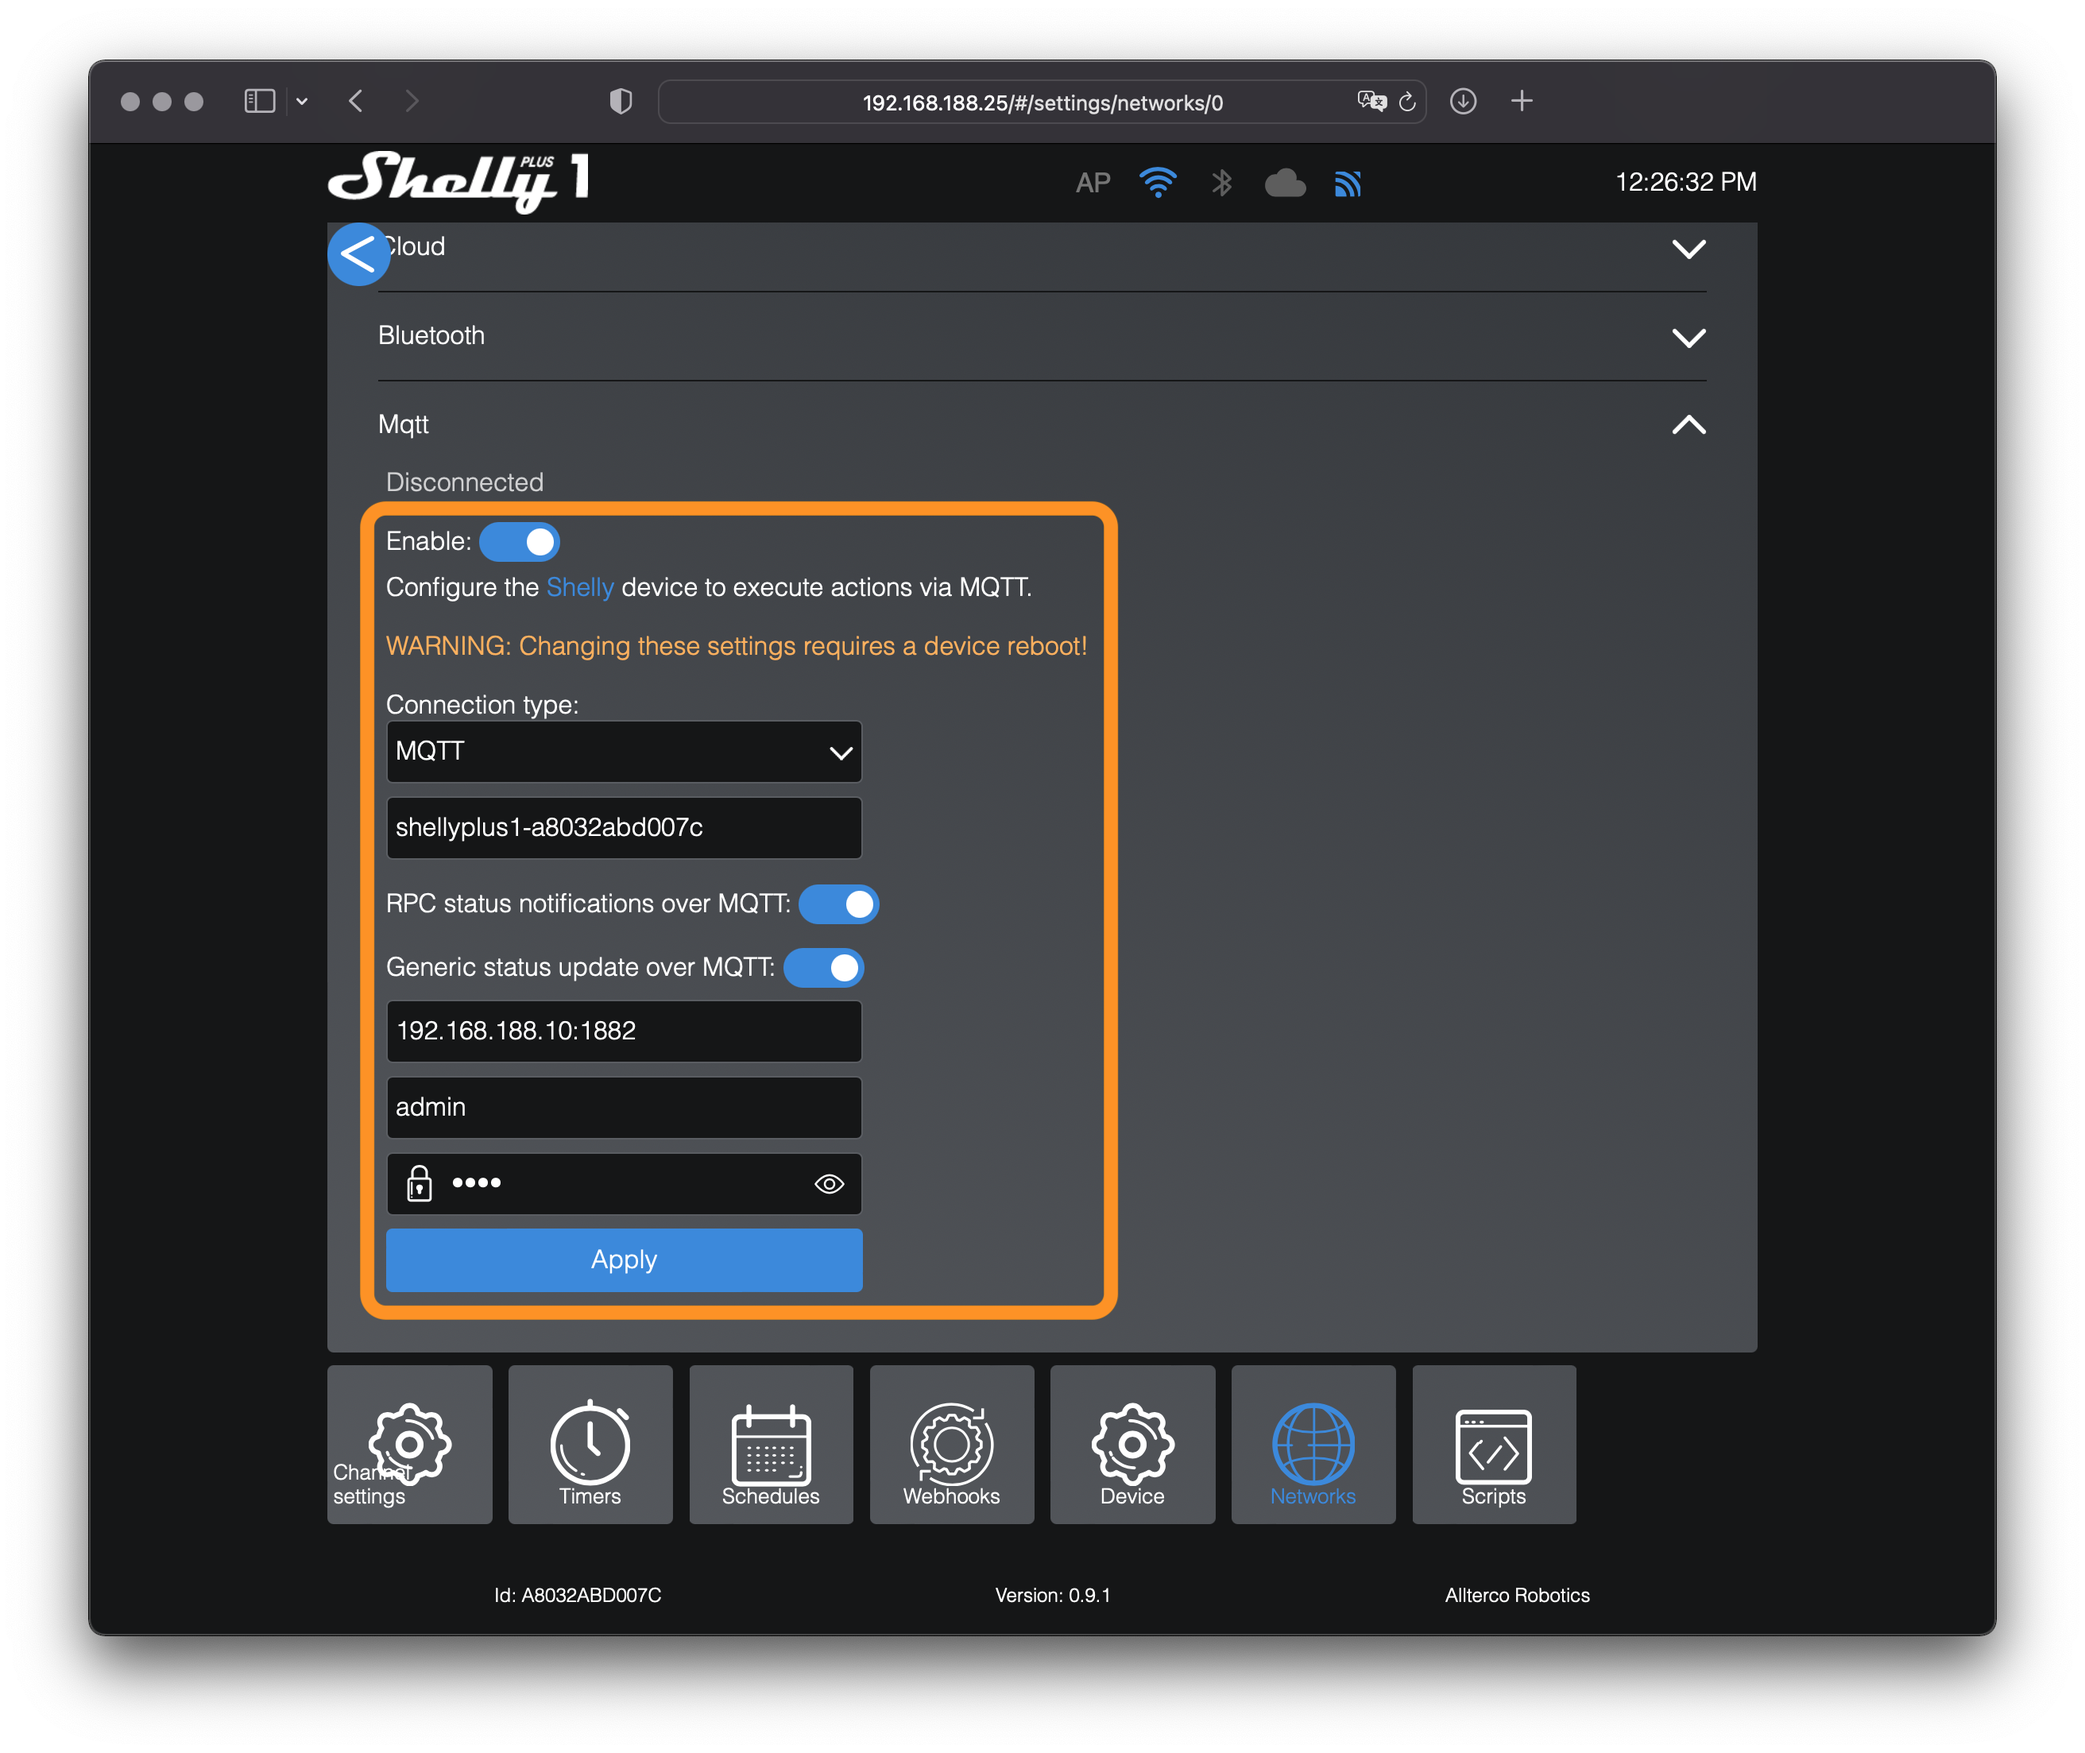
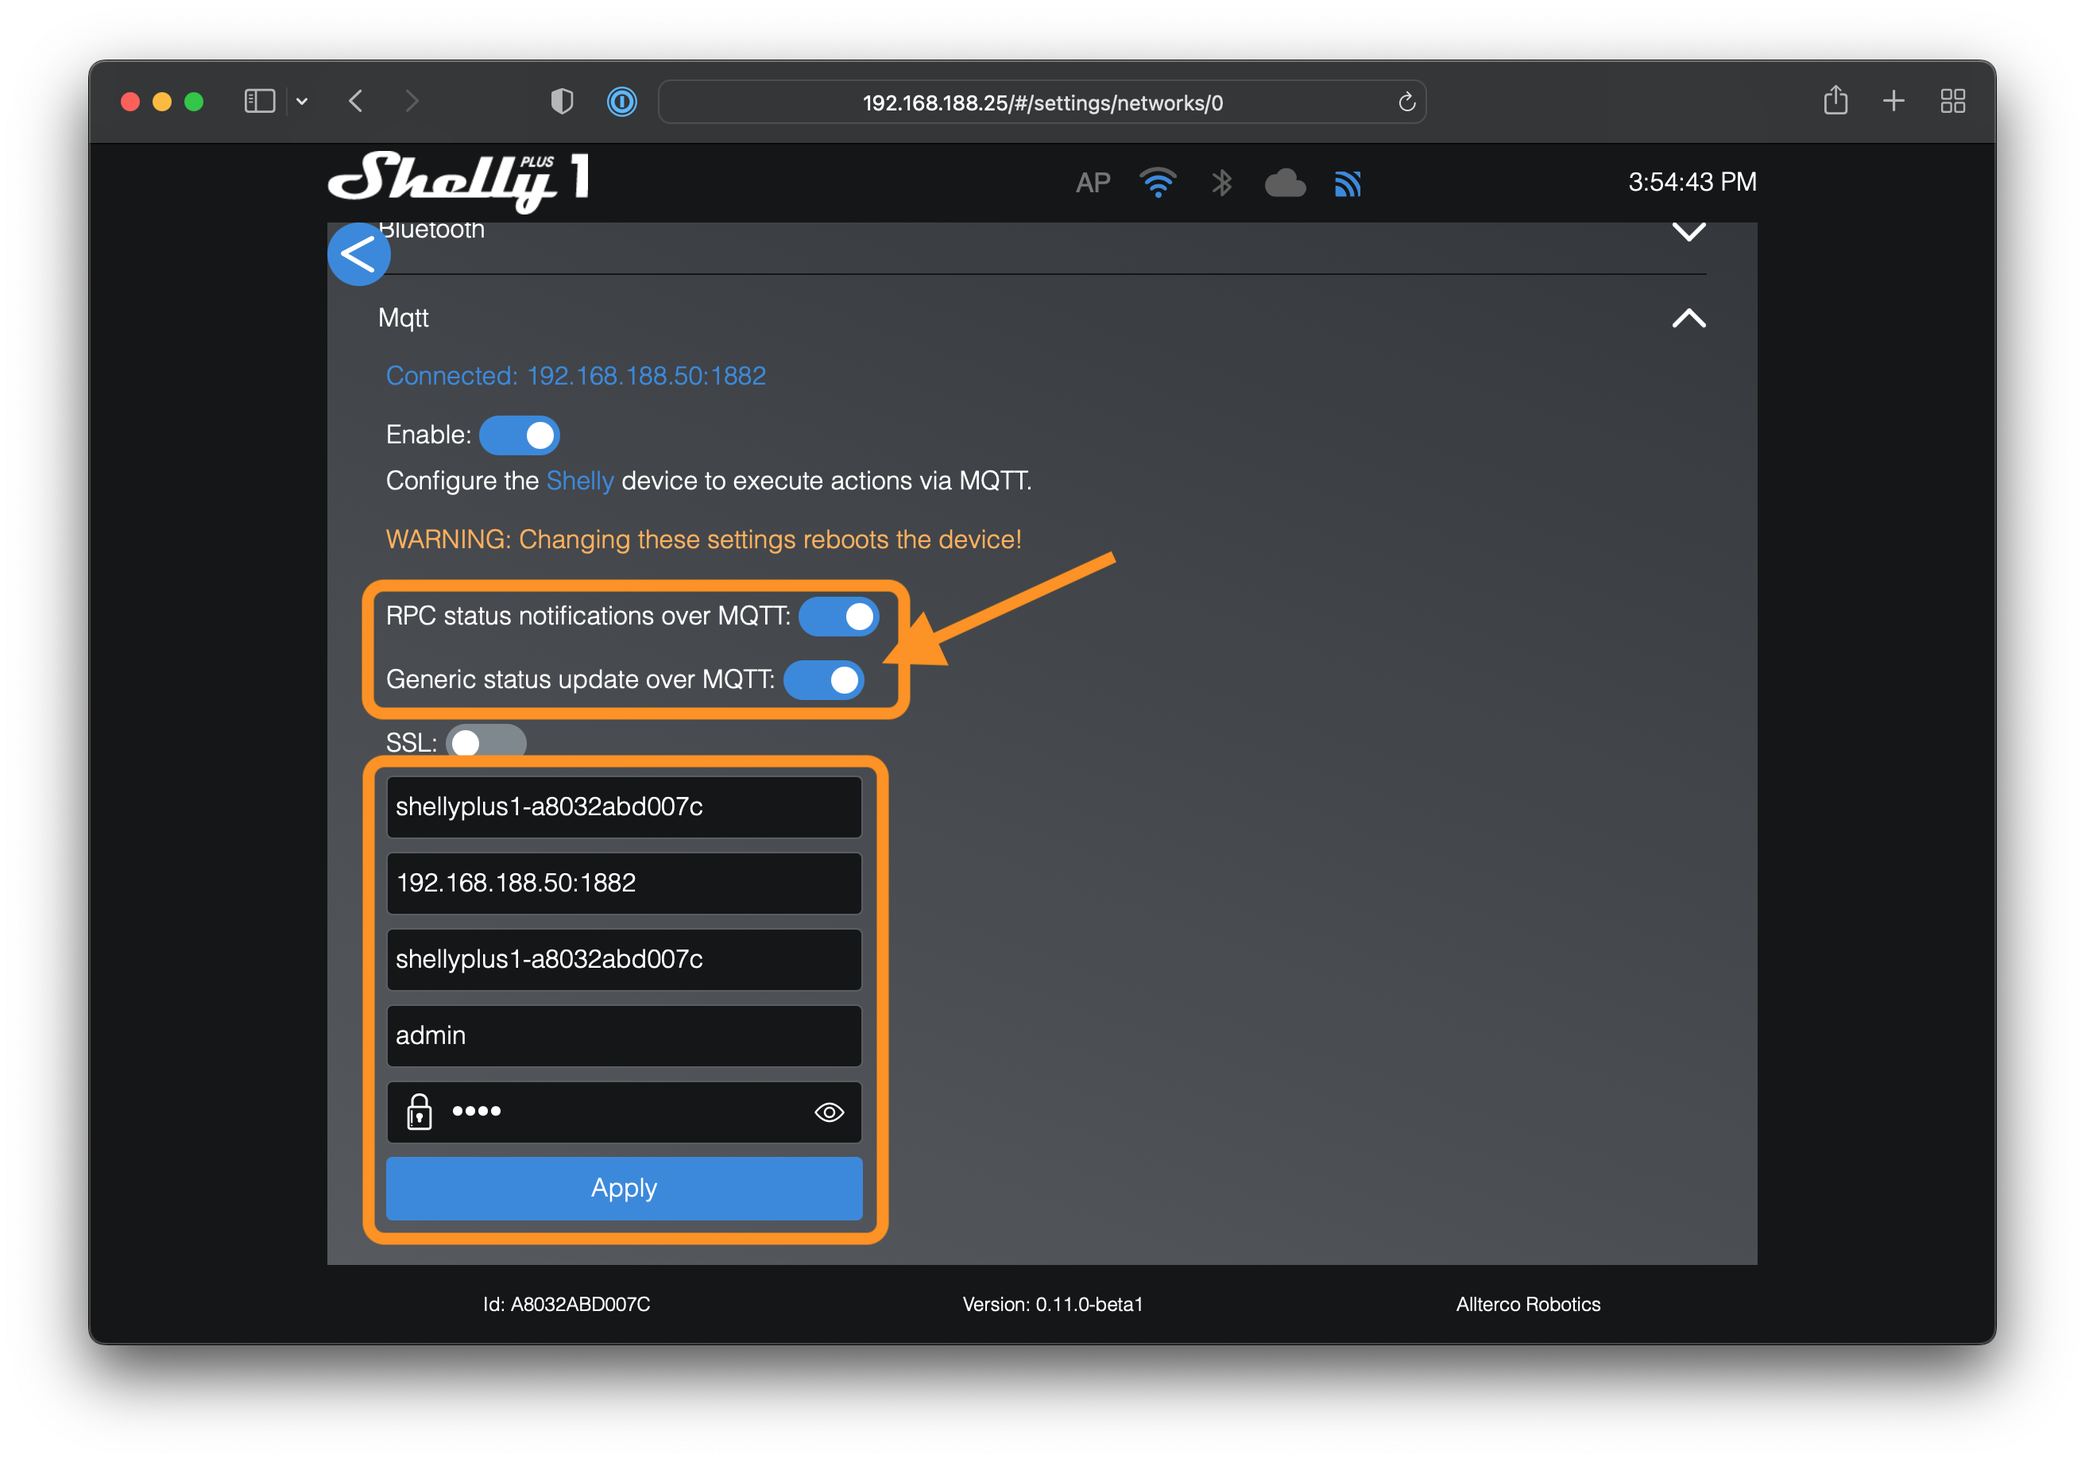
Updated documentation for Gen2 (0.11.0 beta)

Changed region(s): [[0.0312, 0.031, 0.9688, 0.9603], [0.7812, 0.1859, 0.8125, 0.2168]]

diff --git a/docs/de/protocol-mqtt.md b/docs/de/protocol-mqtt.md
@@ -29,10 +29,12 @@ Aktiviere MQTT auf deinen Shelly-Geräten:
 3. Aktiviere MQTT und gib die gerade konfigurierten Benutzerdaten und die IP-Adresse deiner ioBroker-Installation ein - gefolgt von Port 1882 (beispielsweise ```192.168.20.242:1882```)
 4. Speichere die Konfiguration - der Shelly startet automatisch neu
 
-- Bei Gen1-Geräten: Ändere nicht den ```custom MQTT prefix``` (der Adapter wird nicht funktionieren, wenn Du diesen Wert anpasst)
+**Ändere nicht den ```(custom) MQTT prefix``` - der Adapter funktioniert nicht, wenn Du diesen Wert anpasst!**
 
 ![shelly gen1](./img/shelly_mqtt-gen1.png)
 
-![shelly gen2](./img/shelly_mqtt-gen2.png)
+- **Ändere nicht die "client id" in dieser Konfiguration**
+- **Für Generation 2 Geräte müssen alle RPC-Optionen aktiviert werden (siehe Screenshot)!**
+- SSL darf nicht aktiviert werden
 
-**Für Generation 2 Geräte müssen alle RPC-Optionen aktiviert werden (siehe Screenshot)!**
+![shelly gen2](./img/shelly_mqtt-gen2.png)

diff --git a/docs/en/protocol-mqtt.md b/docs/en/protocol-mqtt.md
@@ -29,10 +29,12 @@ Activate MQTT on all your Shelly devices:
 3. Activate MQTT and enter the previously configured username, password and the ip address of your ioBroker installation - followed by port 1882 (e.g. ```192.168.20.242:1882```)
 4. Save the configuration - the Shelly will reboot automatically
 
-- For Gen1 devices: Do not change the ```custom MQTT prefix``` (the Adapter will not work if you change the prefix)
+**Do not change the ```(custom) MQTT prefix``` - the adapter will not work if you change the prefix!**
 
 ![shelly gen1](./img/shelly_mqtt-gen1.png)
 
-![shelly gen2](./img/shelly_mqtt-gen2.png)
+- **Do not change the "client id" in this configuration**
+- **You have to enable all RPC notification options for gen 2 devices (see screenshot)!**
+- SSL has to be disabled!
 
-**You have to enable all RPC notification options for gen 2 devices (see screenshot)!**
+![shelly gen2](./img/shelly_mqtt-gen2.png)

diff --git a/docs/README.md b/docs/README.md
@@ -6,4 +6,4 @@
 - Window-Width: 1200px (use ruler tool of developer tools)
 - Window-Height: Depends on content
 - ioBroker-Admin-Theme: Light
-
+- Color for anotations: ``#FF9300``
